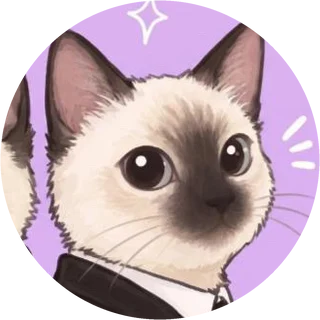
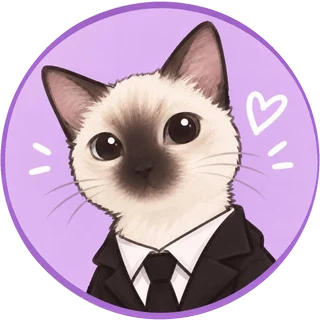
Mascotas: retrato propio de Manchita
Claude-Session: https://claude.ai/code/session_01RHYqmkmbnHMFQDZBhJHPRt

diff --git a/assets/js/mascotas.js b/assets/js/mascotas.js
@@ -27,7 +27,7 @@
       que: 'Te acompañan en los exámenes y te dicen cómo vas.',
       frases: ['Agentes listos para el examen.', 'Uno investiga y la otra verifica.', 'Calma: pregunta por pregunta.'] }
   };
-  function img(k) { return DIR + (PETS[k].img || k) + '.webp'; }
+  function img(k) { return DIR + (PETS[k].img || k) + '.webp?v=2'; }
   function M(h) { return global.MathRender && global.MathRender.render ? global.MathRender.render(h) : h; }
   function el(tag, cls, html) { var e = document.createElement(tag); if (cls) e.className = cls; if (html != null) e.innerHTML = html; return e; }
   function azar(a) { return a[Math.floor(Math.random() * a.length)]; }

diff --git a/index.html b/index.html
@@ -973,6 +973,6 @@
 <script>if(window.Primero)Primero.mount(document.getElementById("s1Root"));</script>
 <script src="assets/js/symbiote.js?v=9"></script>
 <script src="assets/js/app.js?v=14"></script>
-<script src="assets/js/mascotas.js?v=1"></script>
+<script src="assets/js/mascotas.js?v=2"></script>
 </body>
 </html>

diff --git a/README.md b/README.md
@@ -30,7 +30,7 @@ Se agregó un equipo de mascotas que ayudan en los tres años. Cheuscita se mant
 
 - `mascotas.js` se apoya en las clases `.s2-prob`, `.s2-ex`, `.s2-q`, `.s2-fb`, `.s2-result-card`, `.s2-num` y `.s2-head .s2-tile`; si cambian, hay que actualizarlo.
 - La ayuda de Rockytos en el examen no resta puntos.
-- El retrato individual de Manchita es un recorte de la foto en pareja; conviene reemplazar `manchita.webp` cuando haya uno propio.
+- Rovin es el siamés de la mancha blanca en la cara; Manchita, el de la nariz y cara más oscuras. Si cambias un retrato, sube el `?v=` de la imagen en `mascotas.js`.
 
 ## Qué incluye
 
